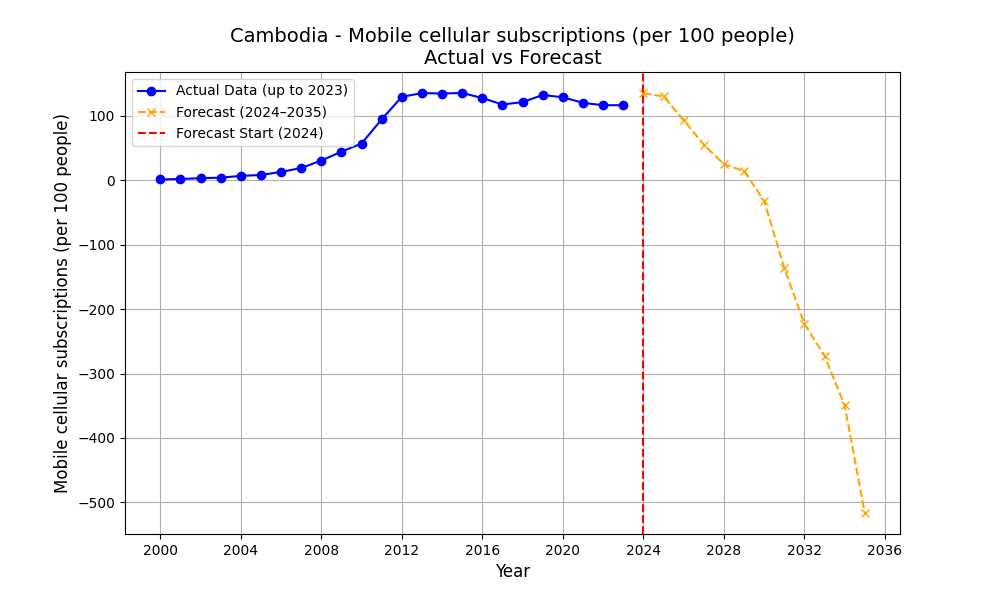
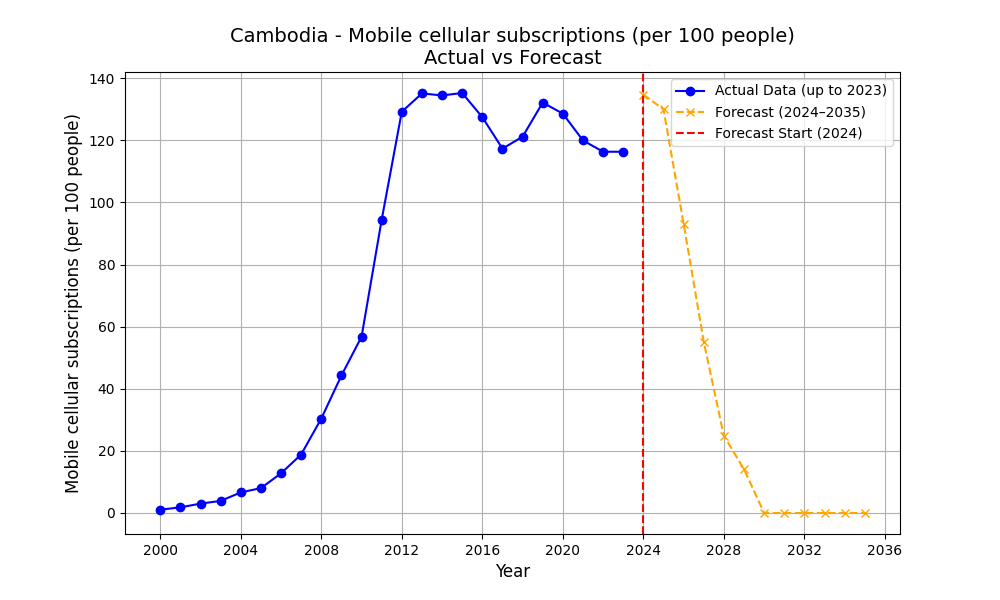
correlation matrix added

diff --git a/forecasting.py b/forecasting.py
@@ -9,6 +9,7 @@ import statsmodels.api as sm
 from statsmodels.tsa.api import VAR
 import os
 
+
 class ASEANForecaster:
     def __init__(self, filepath):
         """
@@ -45,9 +46,9 @@ class ASEANForecaster:
         Clean numeric columns by removing currency symbols and commas
         """
         series = series.astype(str)
-        cleaned = (series.str.replace('$', '')   # Remove dollar sign
-                   .str.replace(',', '')         # Remove commas
-                   .str.strip())                 # Remove whitespace
+        cleaned = (series.str.replace('$', '')  # Remove dollar sign
+                   .str.replace(',', '')  # Remove commas
+                   .str.strip())  # Remove whitespace
         cleaned = cleaned.replace(['', 'nan', 'NaN'], np.nan)
         return pd.to_numeric(cleaned, errors='coerce')
 
@@ -69,8 +70,31 @@ class ASEANForecaster:
     def prepare_multivariate_forecast(self, indicator):
         """
         Prepare multivariate forecast for a specific indicator
-        Considers relationships between indicators
+        Considers relationships between indicators and applies constraints
         """
+        # Define indicator-specific constraints
+        constraints = {
+            'GDP (current US$)': {'min_factor': 0.9},  # No more than 10% below historical minimum
+            'GNI per capita': {'min_factor': 0.9},
+            'Industry (% of GDP)': {'min_value': 0, 'max_value': 100},  # Percentage constraint
+            'Manufacturing (% of GDP)': {'min_value': 0, 'max_value': 100},
+            'Foreign direct investment (% of GDP)': {'min_value': -100, 'max_value': 100},  # Can be negative
+            'Population, total': {'min_factor': 0.95},  # Population cannot drop sharply
+            'Urban population (% of total)': {'min_value': 0, 'max_value': 100},
+            'Population growth (annual %)': {'min_value': -10, 'max_value': 10},  # Realistic bounds
+            'Energy use (kg of oil equivalent per capita)': {'min_factor': 0.8},
+            'Electric power consumption (kWh per capita)': {'min_factor': 0.8},
+            'Access to electricity (% of population)': {'min_value': 0, 'max_value': 100, 'min_factor': 1.0},
+            # Should not decline
+            'Fossil fuel energy consumption (% of total)': {'min_value': 0, 'max_value': 100},
+            'Individuals using the Internet (% of population)': {'min_value': 0, 'max_value': 100},
+            'Mobile cellular subscriptions (per 100 people)': {'min_value': 0, 'max_value': 200},  # Can exceed 100
+            'PM2.5 air pollution (micrograms per cubic meter)': {'min_value': 0},
+            'CO2 emissions (metric tons per capita)': {'min_factor': 0.5},  # Allow significant reduction
+            'Total greenhouse gas emissions (per capita)': {'min_factor': 0.5},
+            'Demand (TWh)': {'min_factor': 0.8}  # Energy demand cannot drop sharply
+        }
+
         # Prepare data for all countries
         countries = self.data['Country'].unique()
         country_forecasts = {}
@@ -83,17 +107,14 @@ class ASEANForecaster:
                 historical_data = historical_data.interpolate(method='linear')
                 # Remove any remaining NaN rows
                 historical_data = historical_data.dropna()
-
                 # If insufficient data, skip
                 if len(historical_data) < 5:
                     print(f"Insufficient data for {country} - {indicator}. Skipping...")
                     continue
-
                 # Check for constant values
                 if np.all(historical_data.values == historical_data.values[0]):
                     print(f"All values are constant for {country} - {indicator}. Skipping...")
                     continue
-
                 # Standardize data
                 scaler = StandardScaler()
                 scaled_data = pd.DataFrame(
@@ -101,40 +122,48 @@ class ASEANForecaster:
                     columns=historical_data.columns,
                     index=historical_data.index
                 )
-
                 # Set frequency explicitly
                 scaled_data = scaled_data.asfreq('YS')
-
                 # Fit VAR model with dynamic maxlags
                 maxlags = min(len(scaled_data) // 2, 2)
                 var_model = VAR(scaled_data)
                 var_results = var_model.fit(maxlags=maxlags)
-
                 # Forecast all indicators (adjust steps to 12)
                 forecast_scaled = var_results.forecast(scaled_data.values, steps=12)
                 forecast = pd.DataFrame(
                     scaler.inverse_transform(forecast_scaled),
                     columns=historical_data.columns
                 )
-
                 # Define last year and set forecast index
                 last_year = historical_data.index[-1].year
                 forecast.index = pd.date_range(start=f"{last_year + 1}", periods=12, freq='YS')  # Match steps=12
                 forecast['Country'] = country
 
-                # Cap forecast values for specific indicators
-                if indicator == "Individuals using the Internet (% of population)":
-                    forecast[indicator] = forecast[indicator].clip(upper=100)
+                # Apply constraints based on indicator-specific logic
+                if indicator in constraints:
+                    constraint = constraints[indicator]
+                    min_value = constraint.get('min_value', None)
+                    max_value = constraint.get('max_value', None)
+                    min_factor = constraint.get('min_factor', None)
+
+                    # Apply minimum value constraint
+                    if min_value is not None:
+                        forecast[indicator] = forecast[indicator].clip(lower=min_value)
+                    # Apply maximum value constraint
+                    if max_value is not None:
+                        forecast[indicator] = forecast[indicator].clip(upper=max_value)
+                    # Apply minimum factor constraint
+                    if min_factor is not None:
+                        min_historical_value = historical_data[indicator].min()
+                        lower_bound = min_factor * min_historical_value
+                        forecast[indicator] = forecast[indicator].clip(lower=lower_bound)
 
                 # Save forecast for this country and indicator
                 self.save_forecast_by_country_and_indicator(country, indicator, forecast)
-
                 # Plot actuals and forecasts
                 self.plot_actuals_and_forecast(country, indicator, historical_data[indicator], forecast[indicator])
-
                 # Store forecast for combination
                 country_forecasts[country] = forecast
-
             except Exception as e:
                 print(f"Error forecasting {indicator} for {country}: {e}")
 
@@ -182,7 +211,8 @@ class ASEANForecaster:
         plt.title(f"{country} - {indicator}\nActual vs Forecast", fontsize=14)
         plt.xlabel("Year", fontsize=12)
         plt.ylabel(indicator, fontsize=12)
-        plt.axvline(x=pd.to_datetime("2023-12-31"), color="red", linestyle="--", linewidth=1.5, label="Forecast Start (2024)")
+        plt.axvline(x=pd.to_datetime("2023-12-31"), color="red", linestyle="--", linewidth=1.5,
+                    label="Forecast Start (2024)")
         plt.legend()
         plt.grid(True)
 
@@ -206,6 +236,8 @@ class ASEANForecaster:
         """
         Plot a correlation matrix for the indicators
         """
+        print("Generating correlation matrix plot...")
+
         if not hasattr(self, 'data') or self.data is None:
             raise AttributeError("Data has not been initialized. Ensure load_and_preprocess_data has been called.")
 
@@ -215,19 +247,29 @@ class ASEANForecaster:
         # Compute correlation matrix
         correlation_matrix = combined_data.corr()
 
-        # Plot heatmap
-        plt.figure(figsize=(12, 10))
-        sns.heatmap(correlation_matrix, annot=True, fmt=".2f", cmap="coolwarm", cbar=True)
-        plt.title("Correlation Matrix of Indicators", fontsize=16)
+        num_indicators = len(self.indicators)
+        plt.figure(
+            figsize=(num_indicators * 1.2, num_indicators * 1.2))  # Scale figure size with the number of indicators
+        sns.heatmap(
+            correlation_matrix,
+            annot=True,
+            fmt=".2f",
+            cmap="coolwarm",
+            cbar=True
+        )
+        plt.title("Correlation Matrix of Indicators", fontsize=12)
         plt.xticks(rotation=45, ha='right', fontsize=10)
         plt.yticks(fontsize=10)
 
-        # Save the plot
+        # Save the plot with a higher DPI
         os.makedirs("plots", exist_ok=True)
-        plot_path = os.path.join("plots", "correlation_matrix.png")
-        plt.savefig(plot_path)
+        plot_path = os.path.join("correlation_matrix.png")
+        plt.savefig(plot_path, dpi=300, bbox_inches='tight')  # Set DPI to 300
         plt.close()
+
         print(f"Saved correlation matrix plot to {plot_path}")
+
+
 def main():
     # Initialize forecaster
     forecaster = ASEANForecaster('ASEAN_2035.csv')
@@ -238,6 +280,7 @@ def main():
     # Forecast all indicators
     forecasts = forecaster.forecast_all_indicators()
     print("Forecasting complete!")
+
 
 if __name__ == "__main__":
     main()
